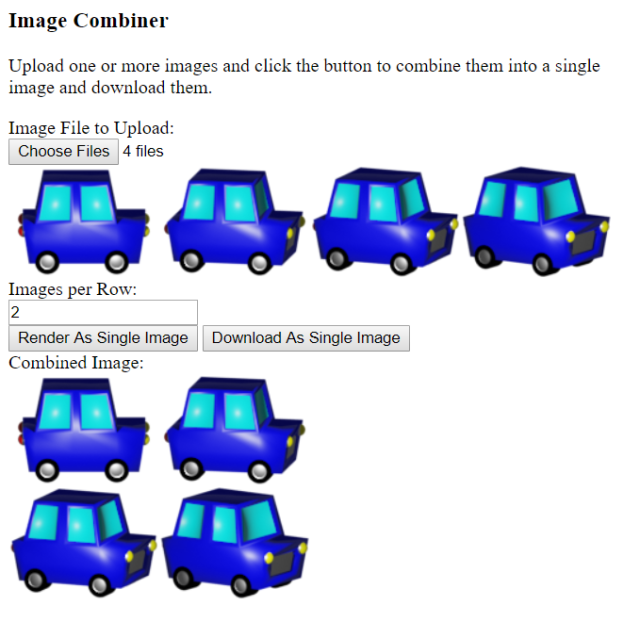
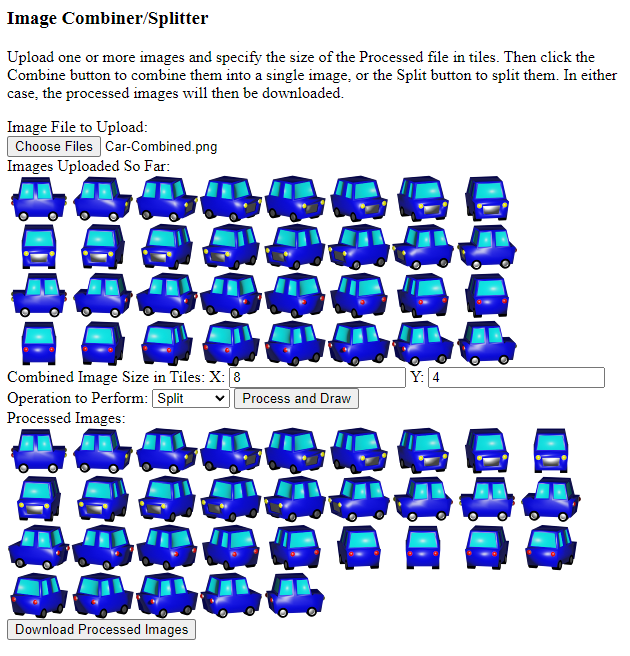
Added option to re-split combined files as well as combine smaller ones.

diff --git a/Source/ImageCombiner.html b/Source/ImageCombiner.html
@@ -4,66 +4,142 @@
 
 <div id="divUI">
 
-	<h3>Image Combiner</h3>
+	<h3>Image Combiner/Splitter</h3>
 
-	<p>Upload one or more images and click the button to combine them into a single image and download them.</p>
+	<p>
+		Upload one or more images and specify the size of the Processed file in tiles. 
+		Then click the Combine button to combine them into a single image,
+		or the Split button to split them.  In either case, the processed images
+		will then be downloaded.</p>
 
 	<label>Image File to Upload:</label>
 	<br />
 	<input type="file" multiple="true" onchange="inputImageFileToUpload_Changed(this);"></input>
+	<br />
+
+	<label>Images Uploaded So Far:</label>
 	<div id="divImagesUploaded"></div>
 
-	<label>Images per Row:</label>
-	<br />
-	<input id="inputImagesPerRow" type="number"></input>
-	<br />
-
-	<button onclick="buttonRenderAsSingleImage_Clicked();">Render As Single Image</button>
-	<button onclick="buttonDownloadAsSingleImage_Clicked();">Download As Single Image</button>
+	<label>Combined Image Size in Tiles:</label>
+	<label>X:</label>
+	<input id="inputImageCombinedSizeInTilesX" type="number"></input>
+	<label>Y:</label>
+	<input id="inputImageCombinedSizeInTilesY" type="number"></input>
 	<br />
 
-	<label>Combined Image:</label>
-	<div id="divImageCombined"></div>
+	<label>Operation to Perform:</label>
+	<select id="selectOperationToPerform">
+		<option>Combine</option>
+		<option>Split</option>
+	</select>
+	<button onclick="buttonProcessAndDraw_Clicked();">Process and Draw</button>
+	<br />
+
+	<label>Processed Images:</label>
+	<div id="divImagesProcessed"></div>
+	
+	<button onclick="buttonDownload_Clicked();">Download Processed Images</button>
 </div>
 
 <script type="text/javascript">
 
 // UI event handlers.
 
-function buttonDownloadAsSingleImage_Clicked()
+function buttonDownload_Clicked()
 {
 	var d = document;
 
-	this.buttonRenderAsSingleImage_Clicked();
+	var divImagesProcessed = d.getElementById("divImagesProcessed");
+	var imagesToDownloadAsCanvases = divImagesProcessed.children;
 
-	var divImageCombined = d.getElementById("divImageCombined");
-	var imageCombinedAsCanvas = divImageCombined.children[0];
-	if (imageCombinedAsCanvas != null)
+	if (imagesToDownloadAsCanvases.length == 0)
 	{
-		var imageCombinedAsDataUrl =
-			imageCombinedAsCanvas.toDataURL("image/png");
-		var imageCombinedAsLink = d.createElement("a");
-		imageCombinedAsLink.href = imageCombinedAsDataUrl;
-		imageCombinedAsLink.download = "Combined.png";
-		imageCombinedAsLink.click();
+		alert("No images to download yet!");
+	}
+	else
+	{
+		var imageCount = imagesToDownloadAsCanvases.length;
+		for (var i = 0; i < imageCount; i++)
+		{
+			var imageProcessedAsCanvas = imagesToDownloadAsCanvases[i];
+			var imageProcessedAsDataUrl =
+				imageProcessedAsCanvas.toDataURL("image/png");
+			var imageProcessedAsLink = d.createElement("a");
+			imageProcessedAsLink.href = imageProcessedAsDataUrl;
+			imageProcessedAsLink.download =
+				"Processed" + (imageCount == 0 ? "" : "" + i) + ".png";
+			imageProcessedAsLink.click();
+		}
 	}
 }
 
-function buttonRenderAsSingleImage_Clicked()
+function buttonProcessAndDraw_Clicked()
 {
 	var d = document;
-	var divImagesUploaded = d.getElementById("divImagesUploaded");
-	var inputImagesPerRow = d.getElementById("inputImagesPerRow");
+	var divImagesUploaded =
+		d.getElementById("divImagesUploaded");
+	var inputImageCombinedSizeInTilesX =
+		d.getElementById("inputImageCombinedSizeInTilesX");
+	var inputImageCombinedSizeInTilesY =
+		d.getElementById("inputImageCombinedSizeInTilesY");
 
 	var imagesAsImgElements = divImagesUploaded.children;
 
 	var imageCount = imagesAsImgElements.length;
 
-	var imagesPerRow = parseInt(inputImagesPerRow.value);
-	if (isNaN(imagesPerRow))
+	var imageCombinedSizeInTilesX =
+		parseInt(inputImageCombinedSizeInTilesX.value);
+	var imageCombinedSizeInTilesY =
+		parseInt(inputImageCombinedSizeInTilesY.value);
+
+	if (isNaN(imageCombinedSizeInTilesX))
 	{
-		imagesPerRow = imageCount;
+		imageCombinedSizeInTilesX = imageCount;
+		imageCombinedSizeInTilesY = 1;
 	}
+	else if (isNaN(imageCombinedSizeInTilesY))
+	{
+		imageCombinedSizeInTilesX = imageCount;
+		imageCombinedSizeInTilesY =
+			Math.ceil(imageCount / imageCombinedSizeInTilesX);
+	}
+
+	var selectOperationToPerform =
+		d.getElementById("selectOperationToPerform");
+	var operationToPerform = selectOperationToPerform.value;
+
+	if (operationToPerform == "Combine")
+	{
+		combine
+		(
+			imagesAsImgElements,
+			imageCombinedSizeInTilesX,
+			imageCombinedSizeInTilesY
+		);
+	}
+	else if (operationToPerform == "Split")
+	{
+		split
+		(
+			imagesAsImgElements[0],
+			imageCombinedSizeInTilesX,
+			imageCombinedSizeInTilesY
+		);
+	}
+	else
+	{
+		throw new Error("Unrecognized operation: " + operationToPerform);
+	}
+}
+
+function combine
+(
+	imagesAsImgElements,
+	imageCombinedSizeInTilesX,
+	imageCombinedSizeInTilesY
+)
+{
+	var imageCount = imagesAsImgElements.length;
 
 	var imageWidthMaxSoFar = 0;
 	var imageHeightMaxSoFar = 0;
@@ -81,9 +157,12 @@ function buttonRenderAsSingleImage_Clicked()
 		}
 	}
 
-	var rowCount = Math.ceil(imageCount / imagesPerRow);
-	var combinedWidth = imageWidthMaxSoFar * imagesPerRow;
-	var combinedHeight = imageHeightMaxSoFar * rowCount;
+	var combinedWidth =
+		imageWidthMaxSoFar * imageCombinedSizeInTilesX;
+	var combinedHeight =
+		imageHeightMaxSoFar * imageCombinedSizeInTilesY;
+
+	var d = document;
 
 	var imageCombinedAsCanvas = d.createElement("canvas");
 	imageCombinedAsCanvas.width = combinedWidth;
@@ -109,9 +188,51 @@ function buttonRenderAsSingleImage_Clicked()
 		);
 	}
 
-	var divImageCombined = d.getElementById("divImageCombined");
-	divImageCombined.innerHTML = "";
-	divImageCombined.appendChild(imageCombinedAsCanvas);
+	var divImagesProcessed = d.getElementById("divImagesProcessed");
+	divImagesProcessed.innerHTML = "";
+	divImagesProcessed.appendChild(imageCombinedAsCanvas);
+}
+
+function split
+(
+	imageCombinedAsImgElement,
+	imageCombinedSizeInTilesX,
+	imageCombinedSizeInTilesY
+)
+{
+	var d = document;
+
+	var combinedWidth = imageCombinedAsImgElement.width;
+	var combinedHeight = imageCombinedAsImgElement.height;
+
+	var tileWidth = combinedWidth / imageCombinedSizeInTilesX;
+	var tileHeight = combinedHeight / imageCombinedSizeInTilesY;
+
+	var divImagesProcessed = d.getElementById("divImagesProcessed");
+	divImagesProcessed.innerHTML = "";
+
+	for (var y = 0; y < imageCombinedSizeInTilesY; y++)
+	{
+		for (var x = 0; x < imageCombinedSizeInTilesX; x++)
+		{
+			var imageForTileAsCanvas = d.createElement("canvas");
+			imageForTileAsCanvas.width = tileWidth;
+			imageForTileAsCanvas.height = tileHeight;
+
+			var graphics = imageForTileAsCanvas.getContext("2d");
+			
+			graphics.drawImage
+			(
+				imageCombinedAsImgElement,
+				x * tileWidth, y * tileHeight, // sourcePos
+				tileWidth, tileHeight, // sourceSize
+				0, 0, // destinationPos
+				tileWidth, tileHeight // destinationSize
+			);
+
+			divImagesProcessed.appendChild(imageForTileAsCanvas);
+		}
+	}
 }
 
 function inputImageFileToUpload_Changed(inputImageFileToUpload)
@@ -135,6 +256,18 @@ function inputImageFileToUpload_Changed(inputImageFileToUpload)
 				var divImagesUploaded =
 					d.getElementById("divImagesUploaded");
 				divImagesUploaded.appendChild(imageUploadedAsImgElement);
+
+				var selectOperationToPerform =
+					d.getElementById("selectOperationToPerform");
+				var imageCount = divImagesUploaded.children.length;
+				if (imageCount < 2)
+				{
+					selectOperationToPerform.value = "Split";
+				}
+				else
+				{
+					selectOperationToPerform.value = "Combine";
+				}
 			};
 			fileReader.readAsDataURL(file);
 		}

diff --git a/Readme.md b/Readme.md
@@ -1,7 +1,7 @@
-Image Combiner
-==============
+Image Combiner/Splitter
+=======================
 
-A JavaScript utility to combine many small images into a single larger image.
+A JavaScript utility to combine many small images into tiles of a single larger image, or to split such a combined image into smaller images again.
 
 To see it in action, open Source/ImageCombiner.html in a web browser that runs JavaScript.
 
